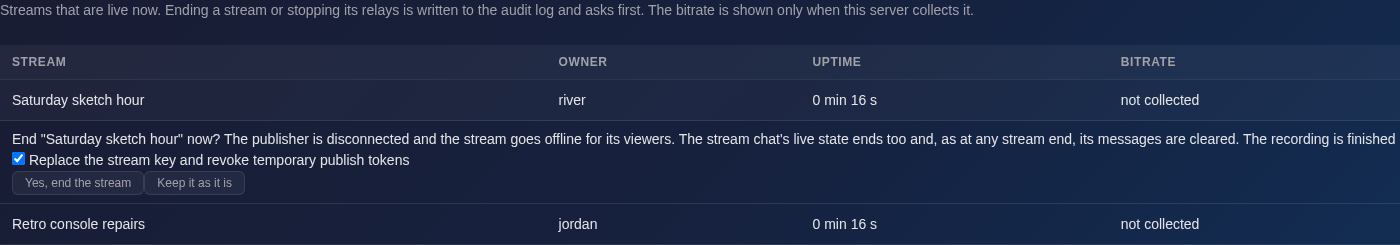
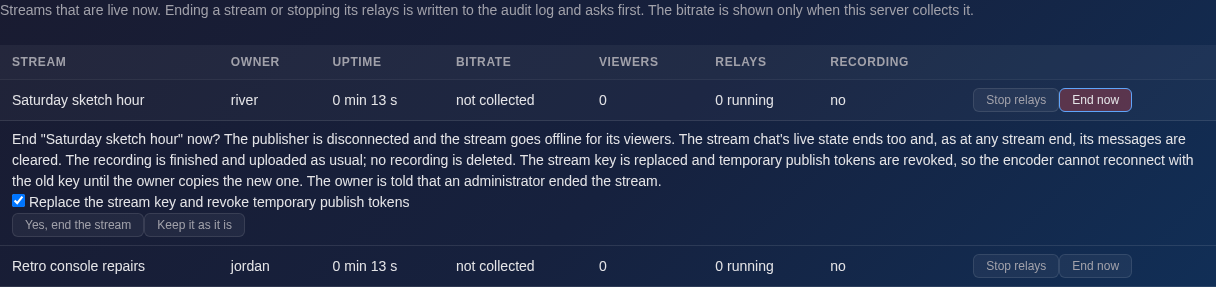
The README picture of the Live streams list is taken again with the End now question wrapped inside the table, the tool refuses a picture whose table is wider than its window, and the caption and the Not tested text say what the picture shows

diff --git a/tools/make_screenshots.py b/tools/make_screenshots.py
@@ -98,7 +98,7 @@ two dips, RTMP, H264 and MPEG-4 Audio), the uptime (two hours and a bit, because
 and the load average (the real call would report this machine's). Relays, recorder and warnings are what the stage
 really answered. The panel, its script and its styles are the portal's own. admin-live-streams: the administrator's Live streams tab as the stage
 answers it (the bitrate column reads "not collected", for the same reason), with the End now question open on its
-own row after its 0.6 second guard; the confirm button is never pressed. overlay-settings: river's stream settings
+own row after its 0.6 second guard, wrapped inside the table (the tool fails the picture when the table is wider than its window); the confirm button is never pressed. overlay-settings: river's stream settings
 window after a reload with an active link, so the block shows the state the portal keeps (the link cannot be shown
 again) and no token. overlay-page: river makes a link through the real route and the real overlay page is loaded
 with it in the browser (a real wss connection to the stage), showing the chat lines the demo data holds; the page
@@ -2309,9 +2309,9 @@ def _stream_health(s):
 
 @shot("admin-live-streams")
 def _admin_live_streams(s):
-    # a wide window (the table has eight columns and a long question) and no wait for "network idle", which this
-    # page did not reach in the staged instance (not investigated)
-    ctx = s.context(ADMIN_NAME, viewport={"width": 1900, "height": 700})
+    # an ordinary laptop window: the long question wraps inside the table on its own row. No wait for "network idle",
+    # which this page did not reach in the staged instance (not investigated)
+    ctx = s.context(ADMIN_NAME, viewport={"width": 1280, "height": 700})
     ctx.route("**/api/system/health", lambda r: r.fulfill(status=200, content_type="application/json", body=json.dumps(DEMO_HEALTH)))
     ctx.add_init_script(DEMO_BACKUPS_PATCH)
     page = ctx.new_page()
@@ -2323,6 +2323,10 @@ def _admin_live_streams(s):
     row.get_by_role("button", name="End now").click()
     page.wait_for_selector(".live-ops-confirm", timeout=15000)
     page.wait_for_timeout(1200)     # past the 0.6 second guard; the confirm button is never pressed
+    wide = page.evaluate("() => { const w = document.querySelector('#tab-livestreams .sys-table-scroll');"
+                         " return [w.scrollWidth, w.clientWidth]; }")
+    if wide[0] > wide[1]:
+        raise Fail(f"the Live streams table is wider than its window ({wide[0]} against {wide[1]} pixels): the question did not wrap")
     assert_clean(s, page, "admin-live-streams")
     s.save("admin-live-streams", page.locator("#tab-livestreams"))
 

diff --git a/tests/test_readme_notes.py b/tests/test_readme_notes.py
@@ -1469,6 +1469,12 @@ check("1.24.0 pictures: the Not tested text says what the pictures did and did n
       "headless Chromium 156" in _sec24 and "readings in its picture are made up" in _sec24 and "not OBS's embedded browser" in _sec24)
 
 
+check("1.24.0 pictures: the Live streams caption and the Not tested text say the question wraps inside the table, and the tool fails a picture whose table is wider than its window",
+      "The question wraps inside the table, on a row of its own" in text and "runs past the edge of the table" not in text
+      and "scrolling sideways; this was seen and left as it is" not in _sec24 and "the tool fails the picture when the table is wider than its window" in _sec24
+      and "the question did not wrap" in _ms24)
+
+
 if failures:
     print(f"\ntest_readme_notes: {len(failures)} FAILED: " + "; ".join(failures))
     sys.exit(1)

diff --git a/README.md b/README.md
@@ -342,7 +342,7 @@ All pictures are taken from a throwaway demo instance with made-up members and a
 *The stream health panel on the watch page of the owner (1.24.0) — warnings, uptime, the bitrate the server receives with its graph (one point per 30 seconds), source and codecs, relays, the recorder and the server load. The readings in this picture are made up: the demo instance has no media server, so the picture's browser replaces the ingest part of the portal's answer, and also its uptime and load average (relays, recorder and warnings are what the demo instance answered)*
 
 ![Live streams tab with the End now question](docs/screenshots/admin-live-streams.png)
-*Admin > Live streams (1.24.0) — two live demo streams, and the End now question open on its own row with the choice to replace the stream key; the confirm button is not pressed. The question is a long line and runs past the edge of the table in this window*
+*Admin > Live streams (1.24.0) — two live demo streams, and the End now question open on its own row with the choice to replace the stream key; the confirm button is not pressed. The question wraps inside the table, on a row of its own, in a window 1280 pixels wide*
 
 <img src="docs/screenshots/overlay-settings.png" alt="Chat overlay block in the stream settings" width="460">
 
@@ -970,7 +970,7 @@ The chat overlay for an OBS browser source is new in 1.24.0. The stream's owner 
 - **Static files.** `stream-health.js` is new at version 4 (loaded by `watch.html`), `live-ops-admin.js` is new at version 3 (loaded by `admin.html`), `overlay.js` is new at version 3 and `overlay.css` at version 1, both loaded by `overlay.html` only; `stream-overlay-settings.js` is new at version 3 (`index.html`, before `streams.js`); `streams.js` is version 53, up from 51 (the stream settings link of the health panel and the Chat Overlay block of the overlay). `watch.html`, `admin.html` and `overlay.html` are served fresh. No other script or style changes.
 - **Rollback.** 1.23.1 ignores the new routes and files and starts on the database 1.24.0 left: it ignores the overlay table (its database layer deletes a stream or an account through the foreign keys and the token row goes with it), and the health panel and the live controls change nothing in the database. Overlay links stop working while 1.23.1 runs (it has no `/ws/overlay`). 1.23.1 does not know the overlay table either, so a password change, a reset or a sign-out-everywhere done while it runs does not end the links: after a later upgrade the old links would read that owner's chat again. Before going back to 1.23.1, delete them (`DELETE FROM stream_overlay_tokens;`, run against `portal.db`), and owners make new links after the next upgrade. One more thing is not safe to leave: the audit entries of End now, Stop relays and the overlay links name a stream (its name, id and owner), and only 1.24.0 hides them from a moderator. 1.23.1 does not know them and shows them to a moderator in Admin > Audit log, private streams included. Before going back to 1.23.1, delete them with this one statement, run against `portal.db`: `DELETE FROM audit_log WHERE action IN ('stream_end_now','stream_stop_relays','stream_overlay_create','stream_overlay_revoke');` (an administrator keeps no record of these actions afterwards), or accept that moderators will read them. A rollback by update snapshot restores the code only, so it does not remove them either. Nothing else needs undoing.
 - **Not tested.** Nothing here was run against a live portal with a real encoder, OBS or Cloudflare in front. Grouped by feature:
-  - **Stream health and live controls.** Everything in this group was run against fakes and captures, never a live portal with a real encoder. (1) MediaMTX: the fixtures in `tests/fixtures/mediamtx-1.21.3` are real captures of v1.21.3, the version the production instance runs; the fixtures in `tests/fixtures/mediamtx-1.9.3` are real captures of v1.9.3, the release `setup.py` installs on a fresh machine (downloaded with the same URL pattern, run from the binary on scratch ports): the paths list with its `itemCount` and `pageCount`, paging with `page` and `itemsPerPage`, and the kick routes for an RTMP and an RTSP publisher, each run with a real ffmpeg publisher. On 1.9.3 only RTMP and RTSP (tcp) publishers were run; RTMPS, RTSPS, WebRTC, SRT and HLS sources were not, so their kick routes are verified on 1.21.3 (RTMPS) or only shown to exist (RTSPS, WebRTC). Reading more than one page was run against a fake of the API that pages the way the 1.9.3 capture shows, not against a MediaMTX holding more than 100 paths. The RTMP, RTMPS and RTSP publishers were real ffmpeg processes; the WebRTC item is hand-written because ffmpeg 5.1 has no WHIP output, so no WebRTC capture or kick was run; that a browser publish is on the path `<key>` rather than `live/<key>` follows from how the portal's WHIP proxy addresses MediaMTX and was checked only as far as MediaMTX 1.21.3 listing an RTSP publish to a path without a folder under its own name, not with a WHIP publisher. (2) The bitrate figure was checked against the captured counters of an ffmpeg publisher set to 800 kbit/s video plus 64 kbit/s audio (868 kbit/s measured, within 10 percent), and the feed was run through the real `MediaMTXService.health_check` against a fake of MediaMTX's API behind a throwaway TLS certificate on 127.0.0.1 (counters set by the test, 30 seconds apart on a fake clock), and once by hand against a MediaMTX v1.21.3 of its own on scratch ports with an ffmpeg test-pattern publisher (1000 kbit/s video plus 64 kbit/s audio over RTMP), where the real `health_check` fed readings 12 seconds apart (not 30) and the bitrate came out at 1.08 Mbit/s; it was not run in a full portal process with OBS or a real encoder over the internet; the 75 second and five minute thresholds were reasoned from the 30 second spacing and unit-tested, not observed over a long real stream, and the service check's real interval under load (it checks every service in turn) was not measured. (3) End now was run against a fake of MediaMTX's control API (answers copied from the capture) and on a staged portal that contacts no media server, not against a real MediaMTX with a connected encoder through the portal. (4) The panel and the Live streams tab ran against a fake DOM in Node (no layout, no real timers) and, for the pictures, in a headless Chromium 156 against a staged instance. The readings in its picture are made up (the stage has no media server and the feature has no hook for readings, so the picture's browser replaces the ingest part of the portal's answer, uptime and load included): the picture shows how the panel draws, not real ingest numbers, and End now was never confirmed there. In that browser the End now question is one long line that does not wrap, so with the question open the table is wider than the window and the columns after Bitrate are reached by scrolling sideways; this was seen and left as it is. (5) No OBS, no real encoder over the internet, no Cloudflare in front, no relay to a real platform (a failing relay was simulated with a stored error), no recorder uploading to a real SFTP server for these routes.
+  - **Stream health and live controls.** Everything in this group was run against fakes and captures, never a live portal with a real encoder. (1) MediaMTX: the fixtures in `tests/fixtures/mediamtx-1.21.3` are real captures of v1.21.3, the version the production instance runs; the fixtures in `tests/fixtures/mediamtx-1.9.3` are real captures of v1.9.3, the release `setup.py` installs on a fresh machine (downloaded with the same URL pattern, run from the binary on scratch ports): the paths list with its `itemCount` and `pageCount`, paging with `page` and `itemsPerPage`, and the kick routes for an RTMP and an RTSP publisher, each run with a real ffmpeg publisher. On 1.9.3 only RTMP and RTSP (tcp) publishers were run; RTMPS, RTSPS, WebRTC, SRT and HLS sources were not, so their kick routes are verified on 1.21.3 (RTMPS) or only shown to exist (RTSPS, WebRTC). Reading more than one page was run against a fake of the API that pages the way the 1.9.3 capture shows, not against a MediaMTX holding more than 100 paths. The RTMP, RTMPS and RTSP publishers were real ffmpeg processes; the WebRTC item is hand-written because ffmpeg 5.1 has no WHIP output, so no WebRTC capture or kick was run; that a browser publish is on the path `<key>` rather than `live/<key>` follows from how the portal's WHIP proxy addresses MediaMTX and was checked only as far as MediaMTX 1.21.3 listing an RTSP publish to a path without a folder under its own name, not with a WHIP publisher. (2) The bitrate figure was checked against the captured counters of an ffmpeg publisher set to 800 kbit/s video plus 64 kbit/s audio (868 kbit/s measured, within 10 percent), and the feed was run through the real `MediaMTXService.health_check` against a fake of MediaMTX's API behind a throwaway TLS certificate on 127.0.0.1 (counters set by the test, 30 seconds apart on a fake clock), and once by hand against a MediaMTX v1.21.3 of its own on scratch ports with an ffmpeg test-pattern publisher (1000 kbit/s video plus 64 kbit/s audio over RTMP), where the real `health_check` fed readings 12 seconds apart (not 30) and the bitrate came out at 1.08 Mbit/s; it was not run in a full portal process with OBS or a real encoder over the internet; the 75 second and five minute thresholds were reasoned from the 30 second spacing and unit-tested, not observed over a long real stream, and the service check's real interval under load (it checks every service in turn) was not measured. (3) End now was run against a fake of MediaMTX's control API (answers copied from the capture) and on a staged portal that contacts no media server, not against a real MediaMTX with a connected encoder through the portal. (4) The panel and the Live streams tab ran against a fake DOM in Node (no layout, no real timers) and, for the pictures, in a headless Chromium 156 against a staged instance. The readings in its picture are made up (the stage has no media server and the feature has no hook for readings, so the picture's browser replaces the ingest part of the portal's answer, uptime and load included): the picture shows how the panel draws, not real ingest numbers, and End now was never confirmed there. In that browser the End now question wraps inside the table on a row of its own (the picture was taken in a window 1280 pixels wide, and the tool fails the picture when the table is wider than its window); only that one window width and that one Chromium were seen, not a phone (the health panel's graph was checked at 320 pixels in a headless Chromium on a stand-alone page that loads the panel's own script and the page's own style rules, not on the real watch page), and the table's other rows still scroll sideways in a window narrower than their eight columns. (5) No OBS, no real encoder over the internet, no Cloudflare in front, no relay to a real platform (a failing relay was simulated with a stored error), no recorder uploading to a real SFTP server for these routes.
   - **No OBS and no browser (overlay).** The page script and the settings block ran under Node against a fake DOM, a fake WebSocket and a scripted fetch, as separate classic scripts. The staged smoke check starts no browser (a headless Chromium contacts its maker's hosts within seconds, and a smoke check dials nothing outside this machine); it checks the page's policy as text (`connect-src 'self'`, no other host). The screenshot tool did load the page in a headless Chromium 156 against a staged instance (`docs/screenshots/overlay-page.png`): the `wss:` connection was allowed under that policy, the lines were drawn as text, and the page came out transparent (the picture is laid over a checkerboard by the tool). That is one Chromium on one machine, not OBS's embedded browser, so the transparency in OBS, the fade, the layout at OBS sizes and OBS's own browser version were not seen. The settings block and the dock note were shown in the same headless Chromium, the dock itself was not tried. The docks were not tried. The screenshot tool starts its Chromium with background networking, component updates, sync, default apps and field trials switched off and with a resolver rule that leaves only the demo host and loopback resolvable; in a net log of a Chromium 156 the only connections were to 127.0.0.1, while the browser still asked for its maker's hosts, and those requests failed with a name that does not resolve.
   - **No real encoder and no Cloudflare.** The sockets were tested in-process and on a staged instance on loopback. Nothing ran through Cloudflare, so how it treats a long-lived WebSocket from OBS (idle timeouts, the 429 on the upgrade) is untested.
   - **Slow clients were tested with a fake that never finishes a send and with a raw TCP client that finishes the handshake and never reads.** The broadcast to a chat member took under a few milliseconds throughout and the stalled socket was dropped; this was run on loopback only, not with a real congested network or a stuttering OBS.
